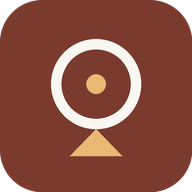
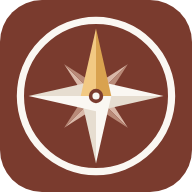
Nieuw app-icoon: kompasroos, ook goed bijgesneden op Android (0.3.3)
Het oude icoon (ring met driehoek) leek op een webcam en werd op Android
klein en vreemd weergegeven. Nieuw: kompasroos met gouden noordpunt, groter
binnen de veilige zone van het maskable-icoon.

Claude-Session: https://claude.ai/code/session_01FHhcw26JhqyYqV1ZpQSHDt

diff --git a/js/app.js b/js/app.js
@@ -5,7 +5,7 @@ import { renderText, inline, esc } from './text.js';
 import { validateTrip } from './validate.js';
 import { migrate } from './migrate.js';
 
-export const APP_VERSION = '0.3.2';
+export const APP_VERSION = '0.3.3';
 const LS_ACTIVE = 'reisapp.active', LS_TODAY = 'reisapp.today', LS_SIZE = 'reisapp.size';
 let installPrompt = null;
 const isStandalone = () => window.matchMedia('(display-mode: standalone)').matches || navigator.standalone === true;

diff --git a/sw.js b/sw.js
@@ -1,5 +1,5 @@
 // Service worker: app-schil offline beschikbaar. Reisgegevens staan in IndexedDB, niet in deze cache.
-const CACHE = 'vademecum-v0.3.2';
+const CACHE = 'vademecum-v0.3.3';
 const SHELL = [
   './', 'index.html', 'manifest.webmanifest', 'css/app.css',
   'js/app.js', 'js/db.js', 'js/graph.js', 'js/text.js', 'js/validate.js', 'js/migrate.js',
